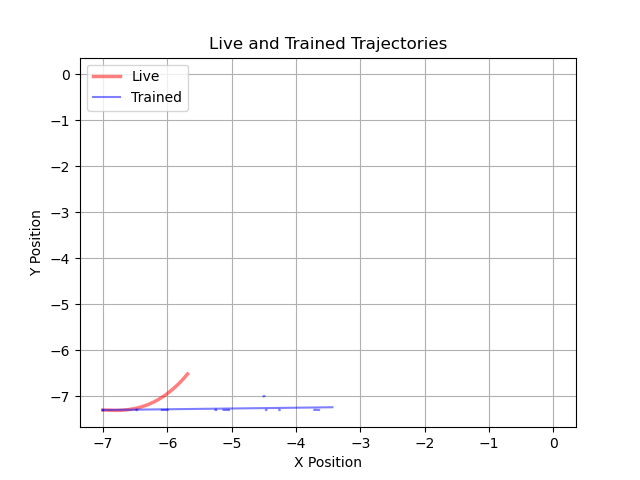
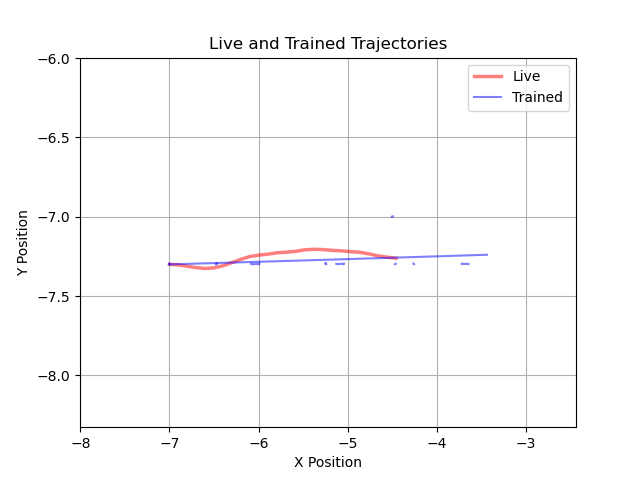
Added x and y limiting on trajectory plot and cleaned line2 data

diff --git a/scripts/TurtlebotDrive.py b/scripts/TurtlebotDrive.py
@@ -160,12 +160,20 @@ class TurtlebotDrive(Node):
                 # Only add legend for the first line
                 plt.plot(line_x, line_y, 'b-', label='Trained', alpha=0.5)  
             else:
-                plt.plot(line_x, line_y, 'b-', alpha=0.5)  
+                plt.plot(line_x, line_y, 'b-', alpha=0.5)
 
+        # Setting plot limits for better figure
+        minimum_x = min(min(x_ref), min(self.x_positions)) - 1
+        maximum_x = max(max(x_ref), max(self.x_positions)) + 1
+        minimum_y = min(min(y_ref), min(self.y_positions)) - 1
+        maximum_y = max(max(y_ref), max(self.y_positions)) + 1
+
+        plt.xlim(minimum_x, maximum_x)
+        plt.ylim(minimum_y, maximum_y)
 
         plt.xlabel('X Position')  # Label for x-axis
         plt.ylabel('Y Position')  # Label for y-axis
-        plt.title("Live and Trained Trajectories")
+        # plt.title("Live and Trained Trajectories")
         plt.legend()  # Show legend
         plt.grid(True)  # Show grid
         plt.savefig("results/trajectory_comparison.png")
